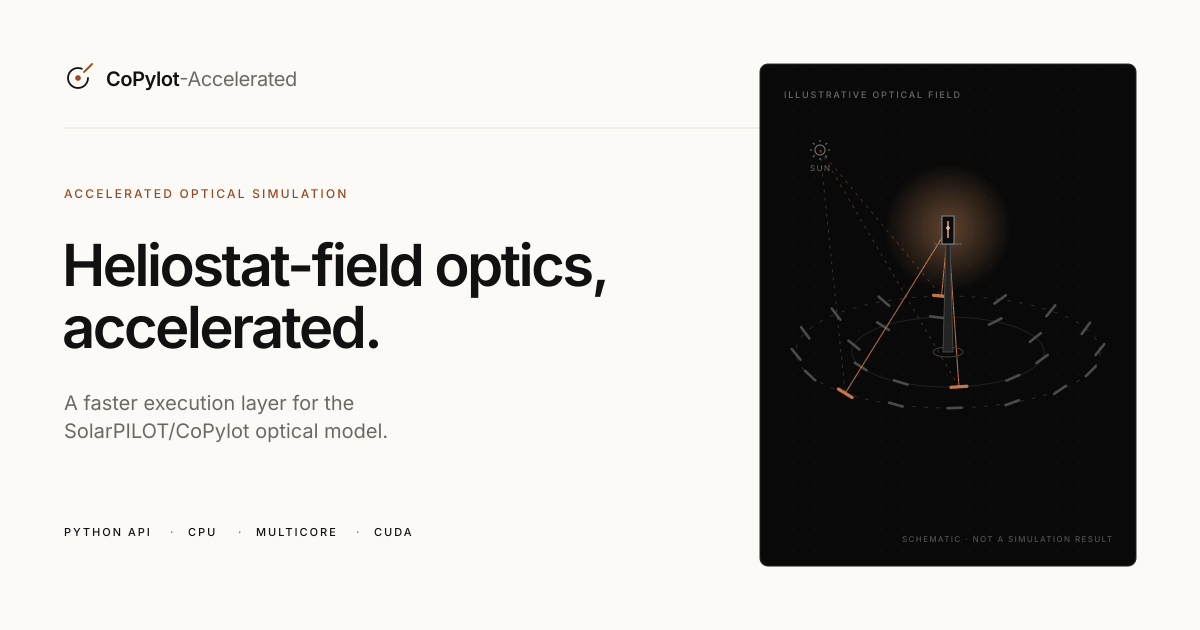
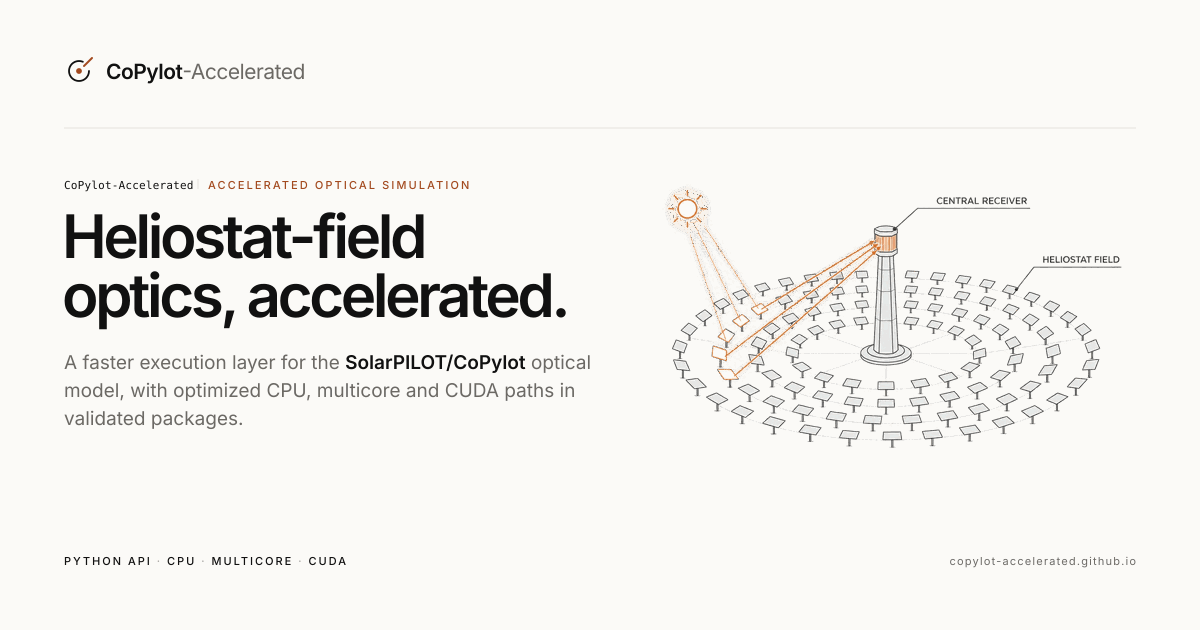
Improve SEO metadata and indexing checks

diff --git a/README.md b/README.md
@@ -193,6 +193,9 @@ After publication is approved:
 2. Under **Build and deployment**, choose **Source: GitHub Actions**.
 3. Run the `Deploy website` workflow manually, or push to `main`.
 
+Pages must use **Source: GitHub Actions**. The repository root does not contain a
+built site, so a legacy branch build cannot serve the Astro output.
+
 The workflow installs with `npm ci`, runs `npm run verify`, executes both
 release-fixture tests, uploads the build with `actions/upload-pages-artifact`
 and deploys with `actions/deploy-pages`. It does not create a `gh-pages` branch.
@@ -237,7 +240,8 @@ launch.
 At launch, set the repository variable `SITE_INDEXABLE=true` (Settings →
 Secrets and variables → Actions → Variables), then run the deployment. This
 switches the meta robots directive, robots.txt and sitemap advertisement. The
-workflow passes the variable to the build as an environment variable.
+workflow passes the variable to the build as an environment variable. If the
+variable is absent, it passes `false` and the deployment remains `noindex`.
 
 ## Updating content
 
@@ -283,7 +287,11 @@ assets are about 139 KB, 197 KB and 330 KB.
 ## Social card
 
 `public/og.png` is the rendered 1200 × 630 Open Graph image. Its editable source
-is `public/og.svg`. Regenerate it with Inkscape if the design changes:
+is `public/og.svg`. The card mirrors the current homepage: wordmark, eyebrow,
+headline, current subtitle, domain and the light isometric hero illustration.
+The SVG embeds a 500 × 281 quantized PNG of the illustration because Inkscape
+does not decode WebP. Regenerate the card after changing the homepage copy or
+hero:
 
 ```sh
 inkscape public/og.svg \
@@ -293,10 +301,9 @@ inkscape public/og.svg \
   --export-height=630
 ```
 
-The card contains an illustrative field schematic and is labelled as such. It
-is not a simulation result. The SVG source uses Inter; Inkscape falls back to an
-available sans font if Inter is not installed, so check the rendered PNG after
-regenerating it.
+The illustration is decorative and is not a simulation result. The SVG source
+uses Inter; Inkscape falls back to an available sans font if Inter is not
+installed, so check the rendered PNG after regenerating it.
 
 ## Verification and deployment
 
